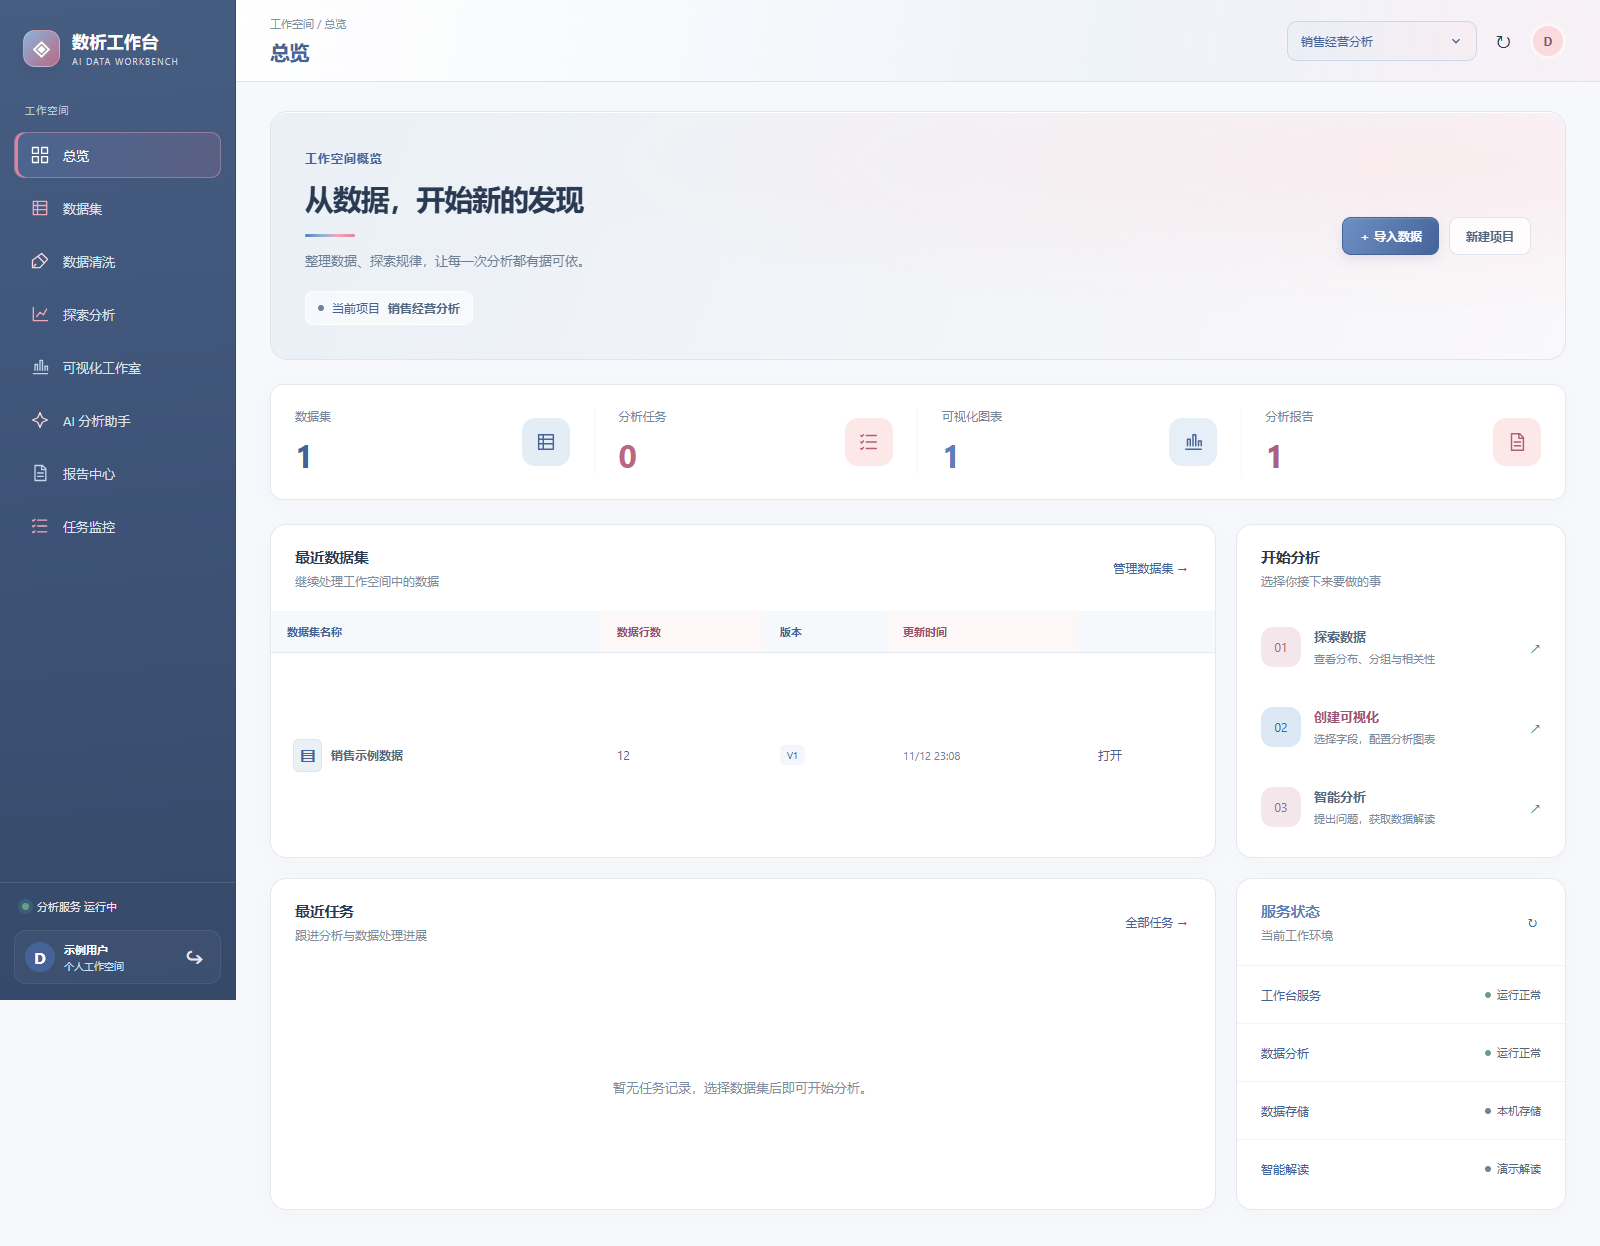
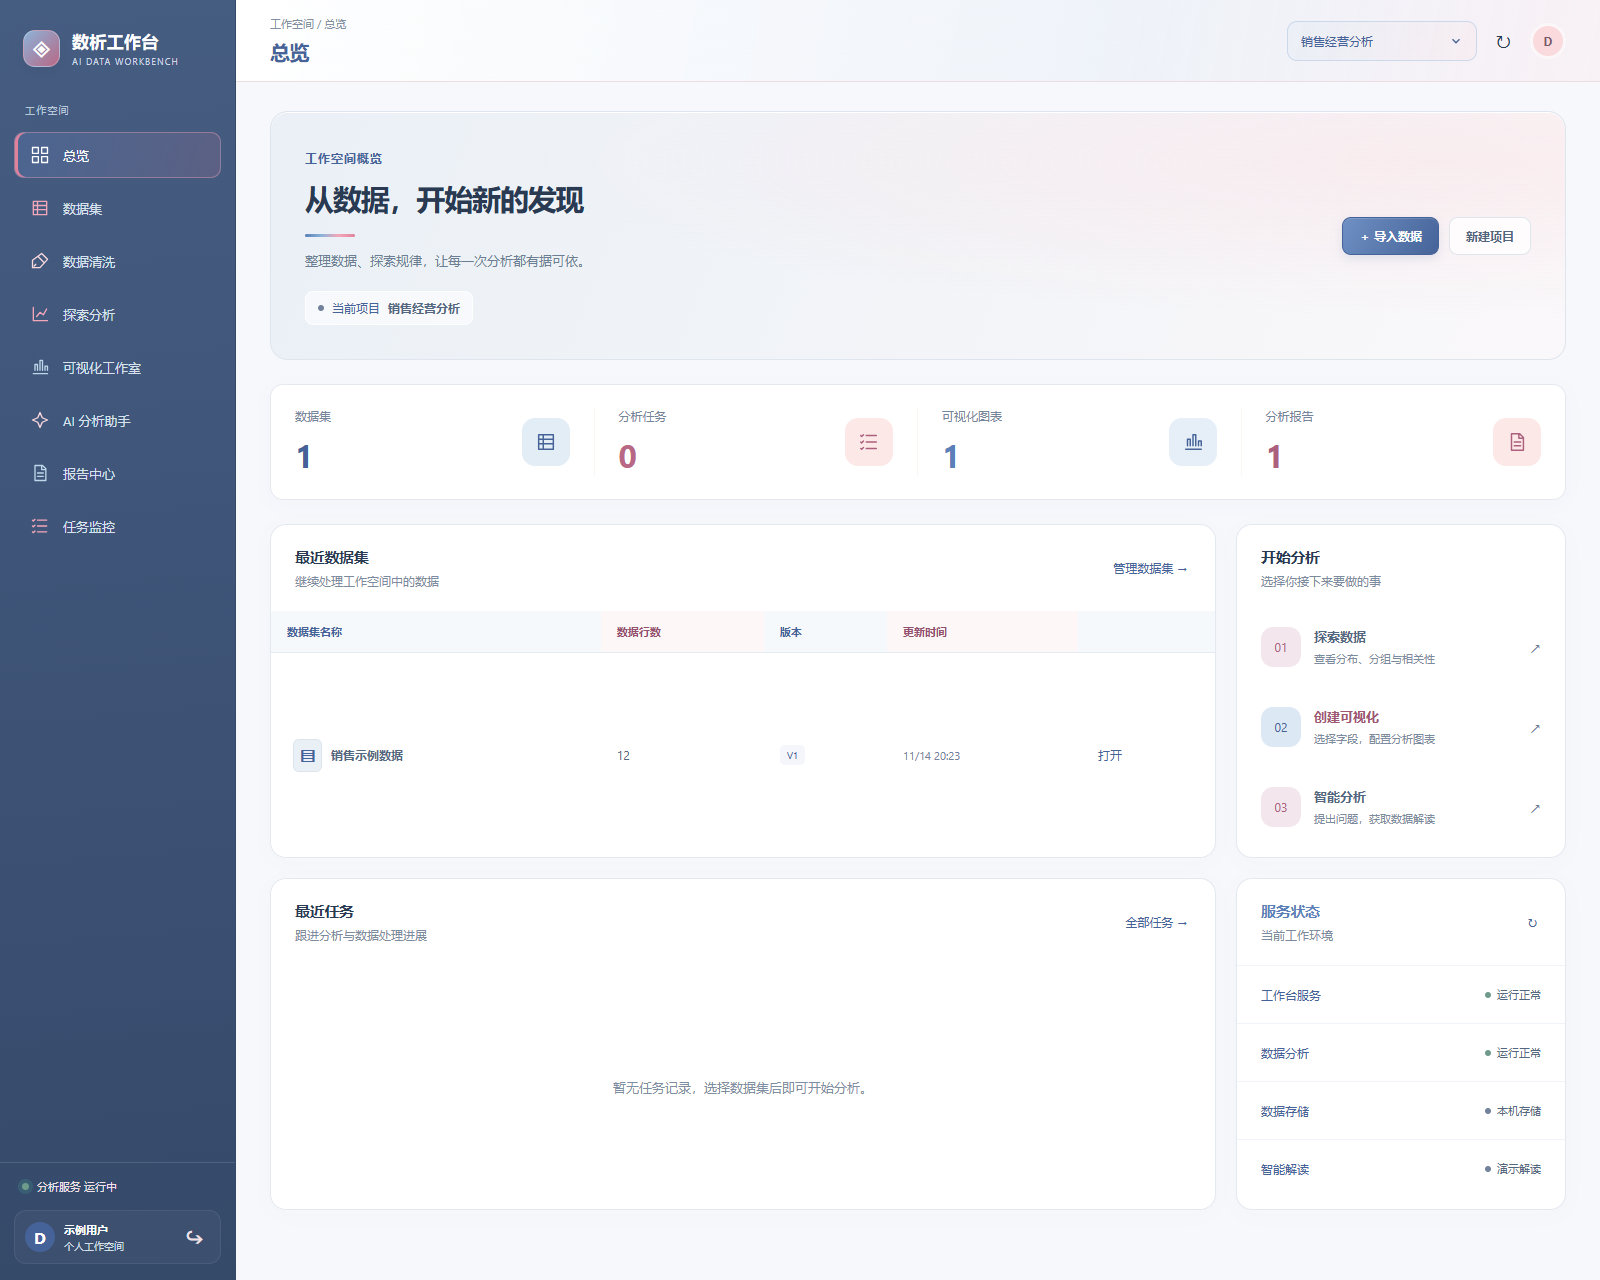
docs: use consistent viewport screenshots

diff --git a/e2e/showcase.spec.ts b/e2e/showcase.spec.ts
@@ -1,14 +1,14 @@
 import { test, expect } from '@playwright/test';
 import { mkdir } from 'node:fs/promises';
 
-test.use({ viewport: { width: 1600, height: 1000 }, video: 'on' });
+test.use({ viewport: { width: 1600, height: 1280 }, video: 'on' });
 
 test('销售样例的实际操作与截图', async ({ page }) => {
   test.setTimeout(120_000);
   await mkdir('docs/images', { recursive: true });
   const capture = async (name: string) => {
     await page.evaluate(() => document.fonts.ready);
-    await page.screenshot({ path: `docs/images/${name}.png`, fullPage: true, animations: 'disabled' });
+    await page.screenshot({ path: `docs/images/${name}.png`, fullPage: false, animations: 'disabled' });
   };
   await page.goto('/login');
   await page.getByRole('button', { name: '注册账号' }).click();
